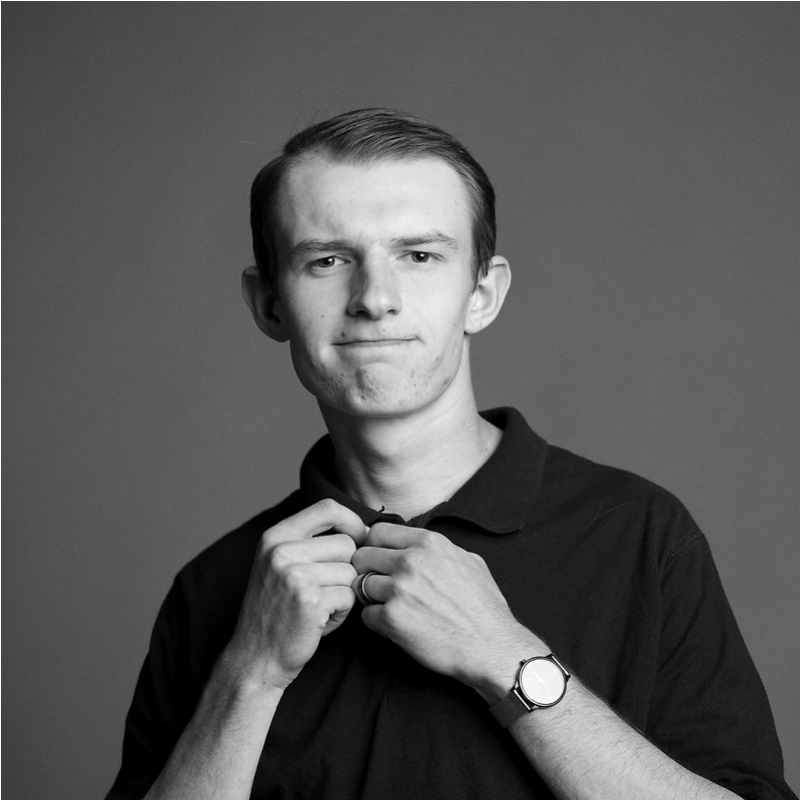
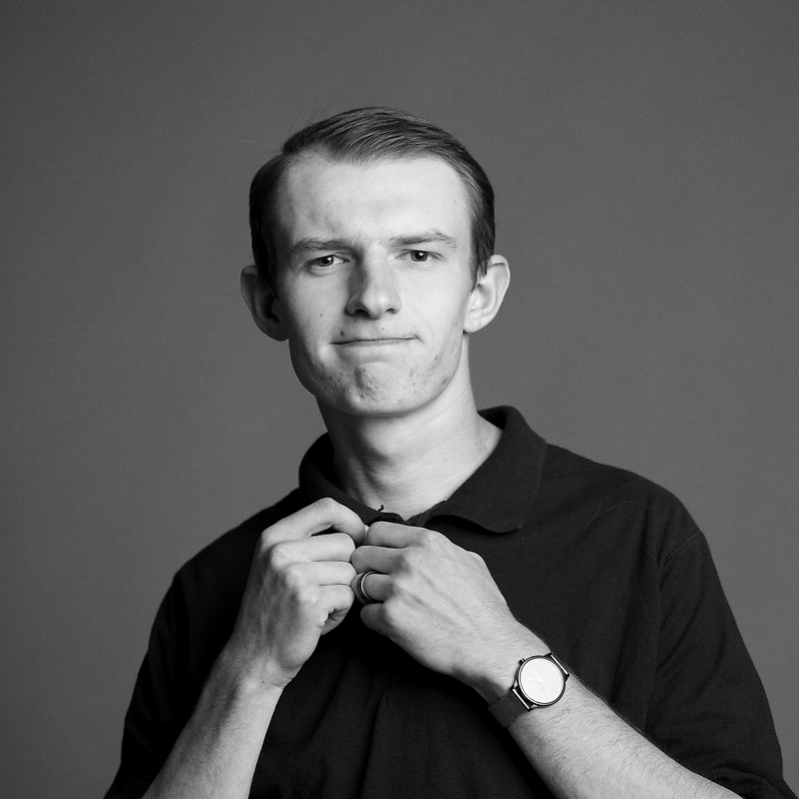
Starting formatting and cleaning code

diff --git a/src/components/Landing.jsx b/src/components/Landing.jsx
@@ -1,5 +1,6 @@
 import React from 'react';
 import headshot from '../assets/headshot.png';
+import '../styles/App.css';
 
 function Landing() {
 
@@ -11,8 +12,8 @@ function Landing() {
         <p>It is a pleasure to meet you</p>
       </div>
 
-      <div className="image">
-        <img src={headshot} alt="Charlie Miner" />
+      <div>
+        <img className="fancy-fade" src={headshot} alt="Charlie Miner" />
       </div>
 
       <div className="description">

diff --git a/src/styles/App.css b/src/styles/App.css
@@ -1,0 +1,21 @@
+:root {
+    --prussian-blue: #032B43;
+    --mahogany: #C44900;
+    --selective_yellow: #FFBB00;
+    --powder-blue: #A7BBEC;
+    --celadon: #A8C69f;
+
+}
+
+html {
+    background-color: var(--prussian-blue);
+    color: white;
+    font-family: 'Courier New', Courier, monospace;
+}
+
+img {
+    width: auto;
+    height: 200px;
+    border-radius: 20px;
+    border: 2px solid var(--powder-blue);
+}

diff --git a/src/components/ContactForm.jsx b/src/components/ContactForm.jsx
@@ -2,11 +2,11 @@ import React from 'react';
 
 function ContactForm() {
   return (
-    
+
 
     <div className="contact-form">
       <h2>Contact Me</h2>
-      <form>
+      <form action="https://formsubmit.co/charliejminer@gmail.com" method="POST">
         <label htmlFor="name">Name:</label>
         <input type="text" id="name" name="name" required />
         <br></br>

diff --git a/src/pages/HomePage.jsx b/src/pages/HomePage.jsx
@@ -1,13 +1,16 @@
 import React from 'react';
 import Landing from '../components/Landing.jsx';
 import Navigation from '../components/Navigation.jsx';
+import '../styles/App.css'
 
 function HomePage() {
 
     return (
         <>
+            <div className="homepage">
             <Navigation />
             <Landing />
+            </div>
         </>
     )
 };

diff --git a/src/App.jsx b/src/App.jsx
@@ -1,5 +1,4 @@
 import { BrowserRouter as Router, Route, Routes } from 'react-router-dom'
-import './styles/App.css'
 import HomePage from './pages/HomePage.jsx'
 import ContactMe from './pages/ContactMe.jsx'
 

diff --git a/src/main.jsx b/src/main.jsx
@@ -1,6 +1,6 @@
 
 import { createRoot } from 'react-dom/client'
-import './styles/index.css'
+import './styles/App.css'
 import App from './App.jsx'
 
 createRoot(document.getElementById('root')).render(
